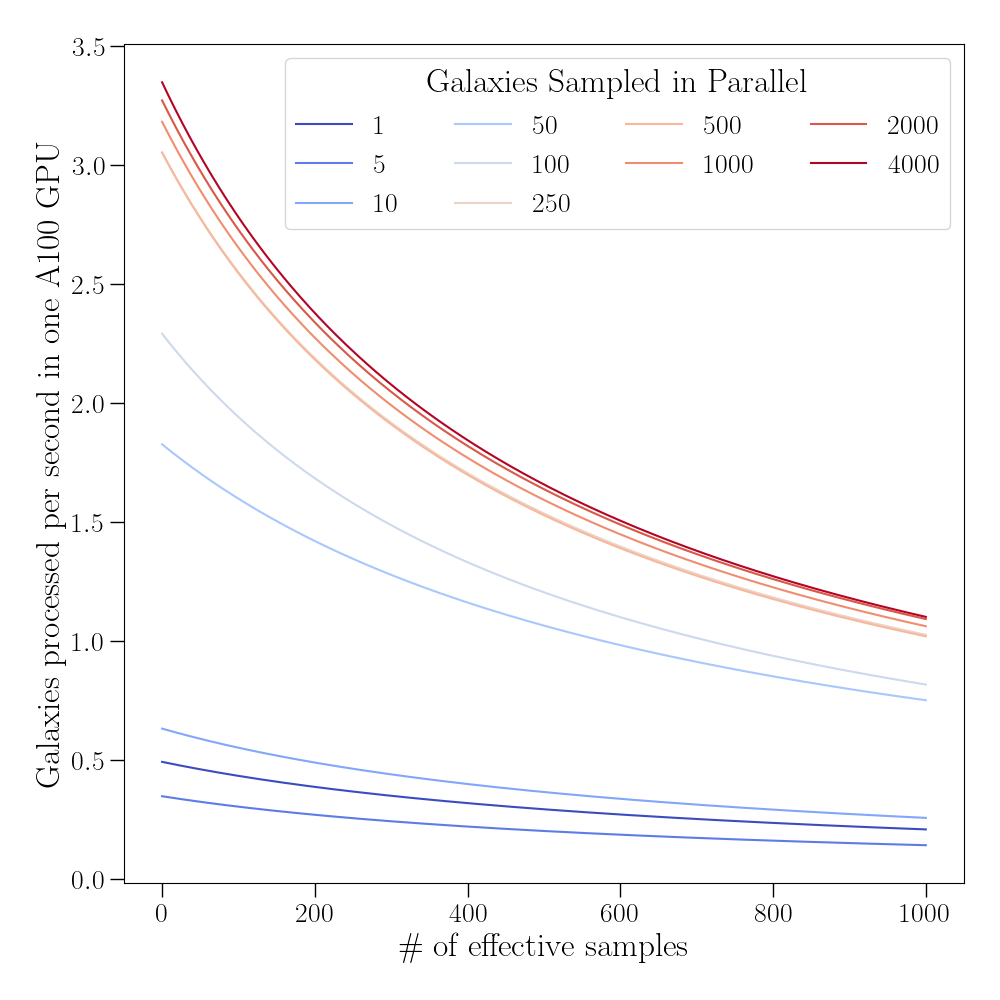
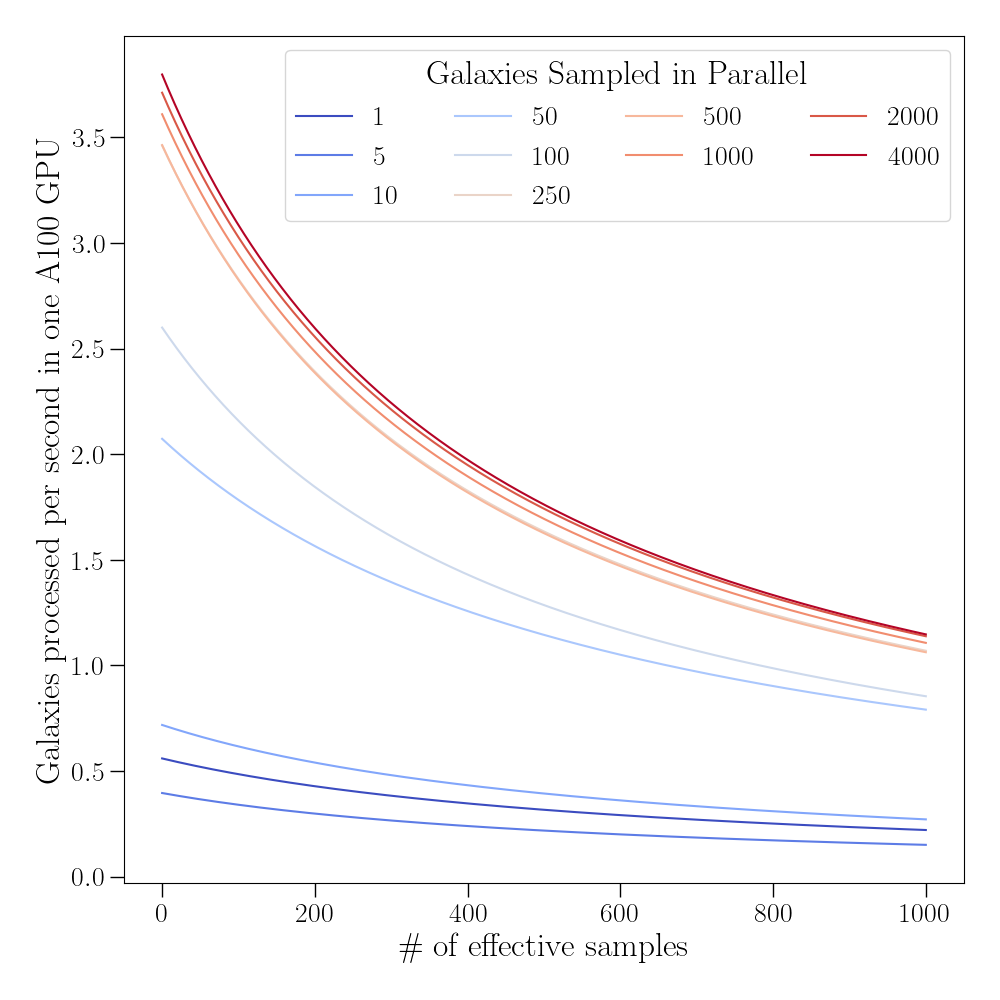
final timing figure

diff --git a/bpd/plotting.py b/bpd/plotting.py
@@ -94,11 +94,11 @@ def get_timing_figure(
         n_chains = int(n_gals_str)  # new fmt
 
         t_per_obj_warmup = t_warmup / n_chains
-        t_per_obj_per_sample_sampling = t_sampling / (n_chains * n_samples)
+        t_per_obj_per_sample_sampling = t_sampling / (n_chains * n_samples) / avg_ess
         t_per_obj_arr = (
             t_per_obj_warmup + t_per_obj_per_sample_sampling * n_samples_array
         )
-        t_per_obj_dict[n_chains] = t_per_obj_arr / avg_ess
+        t_per_obj_dict[n_chains] = t_per_obj_arr
 
         if n_gals_str == max_n_gal_str:
             print(
@@ -106,6 +106,16 @@ def get_timing_figure(
             )
             print(f"Global best warmup: {t_per_obj_warmup:.2g} sec")
 
+        the_idx = np.where(n_samples_array == 300)[0][0]
+        t1 = t_per_obj_arr[the_idx].item() * n_chains
+        t2 = t_per_obj_arr[the_idx].item()
+
+        print(
+            f"Total time (300 effective samples) with {n_gals_str} chains: {t1:.4g} sec"
+        )
+        print(
+            f"Time per galaxy (300 effective samples) with {n_gals_str} chains: {t2:.4g} sec"
+        )
     # first option
     fig1, ax = plt.subplots(1, 1, figsize=figsize)
     ax.set_prop_cycle(cycles)
@@ -131,6 +141,8 @@ def get_timing_figure(
     ax.set_xlabel(r"\rm \# of effective samples")
 
     for n_chains, t_per_obj_array in t_per_obj_dict.items():
+        if n_chains == 5:
+            continue
         ax.plot(n_samples_array, t_per_obj_array, label=f"${n_chains}$")
 
     ax.legend(

diff --git a/scripts/get_paper_figures.py b/scripts/get_paper_figures.py
@@ -820,17 +820,14 @@ def make_model_bias_figure(fpath: str | Path):
 
 
 def main(overwrite: bool = False):
-    # make_distribution_figure(OUT_PATHS["galaxy_distributions"], overwrite=overwrite)
-    # make_timing_figure(OUT_PATHS["timing"], OUT_PATHS["timing2"])
-    # make_timing_table(OUT_PATHS["timing_table"])
-    make_total_timing_figure(OUT_PATHS["total_timing"])
-
-    # make_contour_shear_figure(OUT_PATHS["contour_shear"])
-    # make_contour_hyper_figure(OUT_PATHS["contour_hyper"])
-    # get_bias_table_subset(OUT_PATHS["subset_bias"])
-    # get_bias_table_boot(OUT_PATHS["boot_bias"])
-    # make_eta_posterior_calibration_figure(OUT_PATHS["eta_pc"])
-    # make_model_bias_figure(OUT_PATHS["model_bias"])
+    make_distribution_figure(OUT_PATHS["galaxy_distributions"], overwrite=overwrite)
+    make_timing_figure(OUT_PATHS["timing"], OUT_PATHS["timing2"])
+    make_contour_shear_figure(OUT_PATHS["contour_shear"])
+    make_contour_hyper_figure(OUT_PATHS["contour_hyper"])
+    get_bias_table_subset(OUT_PATHS["subset_bias"])
+    get_bias_table_boot(OUT_PATHS["boot_bias"])
+    make_eta_posterior_calibration_figure(OUT_PATHS["eta_pc"])
+    make_model_bias_figure(OUT_PATHS["model_bias"])
 
 
 if __name__ == "__main__":
